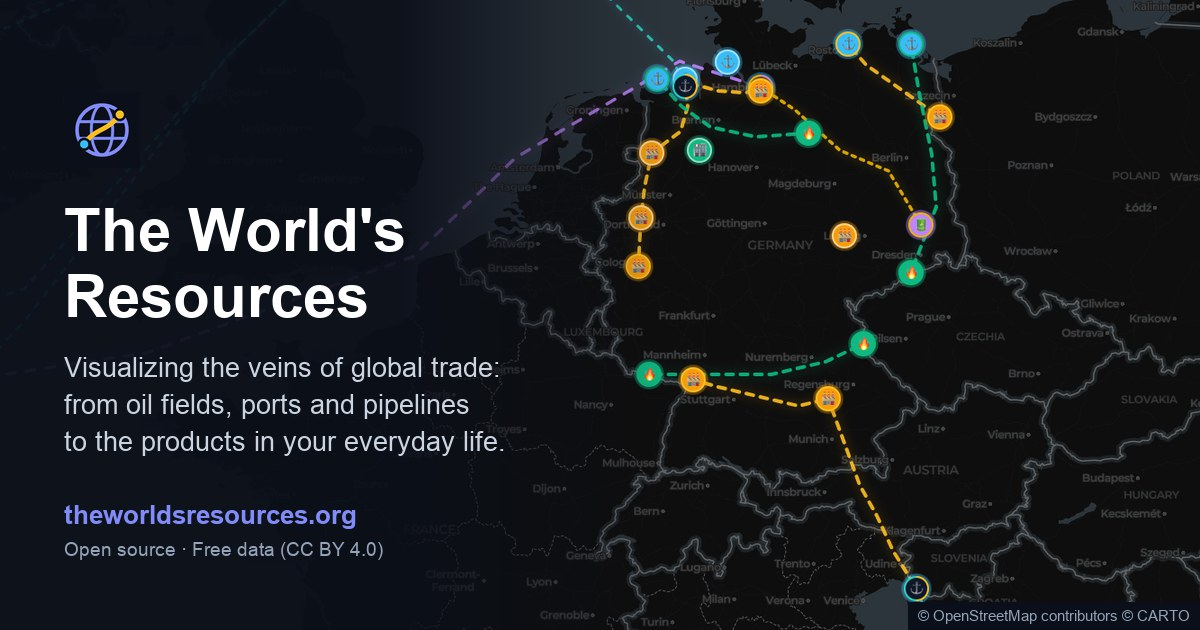
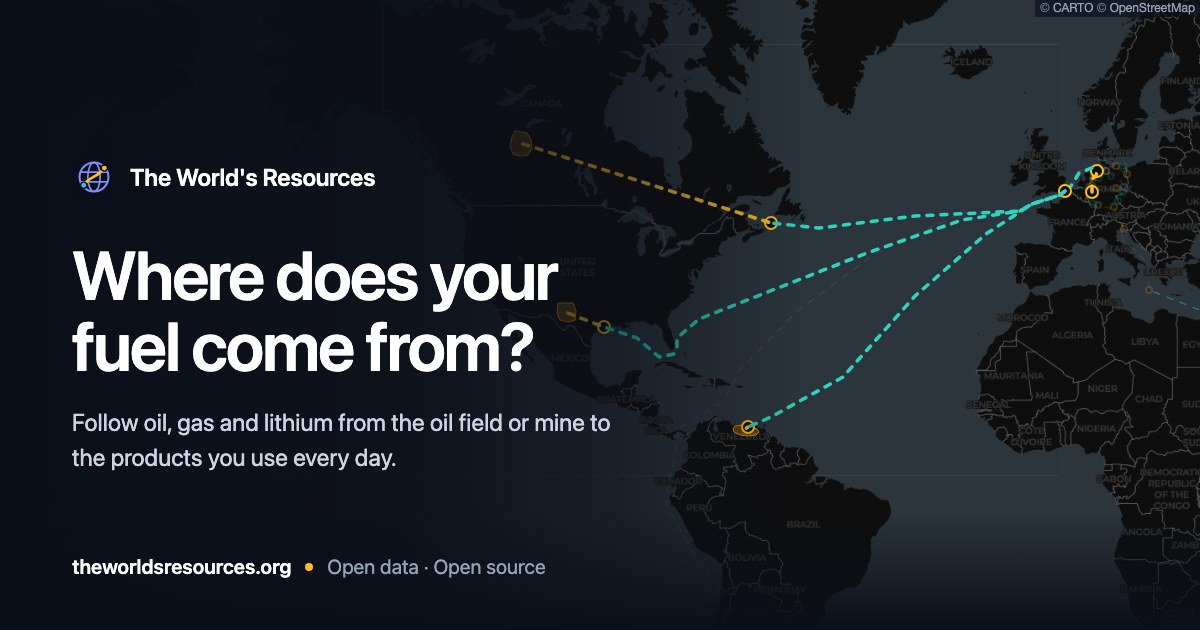
Launch prep: new link preview image and a 404 page
- og-image.jpg rebuilt in the style of the new homepage: the live map
  with the tanker routes to Germany and the headline "Where does your
  fuel come from?" (the old one used emoji icons and the old slogan)
- og:image gets ?v=2 so platforms that cached the old image fetch the
  new one; alt text updated, twitter:image:alt added
- public/404.html: a styled "page not found" page with a link home
  instead of Vercel's plain-text 404
- README: alt text of the screenshot matches the new image

diff --git a/index.html b/index.html
@@ -18,15 +18,16 @@
   <meta property="og:url" content="https://www.theworldsresources.org/">
   <meta property="og:title" content="The World's Resources – Where does your fuel come from?">
   <meta property="og:description" content="An interactive, open-source map of global resource flows: from oil fields, ports and pipelines to the products in your everyday life.">
-  <meta property="og:image" content="https://www.theworldsresources.org/og-image.jpg">
+  <meta property="og:image" content="https://www.theworldsresources.org/og-image.jpg?v=2">
   <meta property="og:image:width" content="1200">
   <meta property="og:image:height" content="630">
-  <meta property="og:image:alt" content="Dark map of Germany with glowing crude oil and natural gas pipelines, ports and refineries">
+  <meta property="og:image:alt" content="Dark world map with tanker routes from Texas, Venezuela and Canada to Germany, next to the headline: Where does your fuel come from?">
   <meta property="og:locale" content="en_US">
   <meta name="twitter:card" content="summary_large_image">
   <meta name="twitter:title" content="The World's Resources – Where does your fuel come from?">
   <meta name="twitter:description" content="An interactive, open-source map of global resource flows: from oil fields, ports and pipelines to the products in your everyday life.">
-  <meta name="twitter:image" content="https://www.theworldsresources.org/og-image.jpg">
+  <meta name="twitter:image" content="https://www.theworldsresources.org/og-image.jpg?v=2">
+  <meta name="twitter:image:alt" content="Dark world map with tanker routes from Texas, Venezuela and Canada to Germany, next to the headline: Where does your fuel come from?">
 
   <!-- Styles: Leaflet + custom theme + Tailwind, bundled by Vite (no third-party CDNs) -->
   <link rel="stylesheet" href="/src/styles/main.css">

diff --git a/public/404.html b/public/404.html
@@ -1,0 +1,30 @@
+<!DOCTYPE html>
+<html lang="en">
+<head>
+  <meta charset="UTF-8">
+  <meta name="viewport" content="width=device-width, initial-scale=1.0">
+  <meta name="robots" content="noindex">
+  <title>Page not found – The World's Resources</title>
+  <link rel="icon" href="/favicon.svg" type="image/svg+xml">
+  <style>
+    html, body { height: 100%; margin: 0; }
+    body { display: flex; align-items: center; justify-content: center; padding: 24px; box-sizing: border-box;
+      background: #0b0f19; color: #cbd5e1; font: 16px/1.6 ui-sans-serif, system-ui, -apple-system, "Segoe UI", Roboto, Arial, sans-serif; }
+    main { max-width: 28rem; }
+    img { width: 40px; height: 40px; }
+    h1 { color: #fff; font-size: 28px; font-weight: 600; letter-spacing: -0.02em; margin: 20px 0 8px; }
+    p { margin: 0 0 28px; }
+    a { display: inline-block; background: #fff; color: #0f172a; font-weight: 600; font-size: 14px;
+      text-decoration: none; padding: 12px 20px; border-radius: 8px; }
+    a:hover { background: #e2e8f0; }
+  </style>
+</head>
+<body>
+  <main>
+    <img src="/favicon.svg" alt="">
+    <h1>This page doesn't exist</h1>
+    <p>The link may be outdated. Everything on The World's Resources starts from the map.</p>
+    <a href="/">Go to the homepage</a>
+  </main>
+</body>
+</html>

diff --git a/README.md b/README.md
@@ -6,7 +6,7 @@ The World's Resources is an open-source, interactive map of global resource flow
 
 🌍 **Live:** [theworldsresources.org](https://www.theworldsresources.org)
 
-![The World's Resources – map of Germany's crude oil, gas and lithium supply chains](public/og-image.jpg)
+![The World's Resources – tanker routes from Texas, Venezuela and Canada to Germany on a dark world map](public/og-image.jpg)
 
 ## What you can do
 
